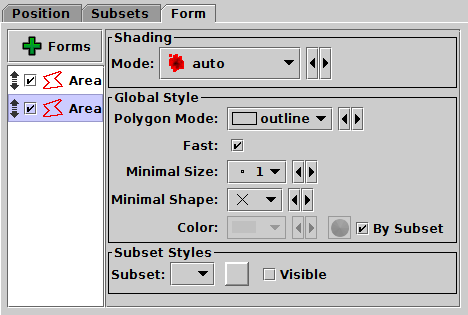
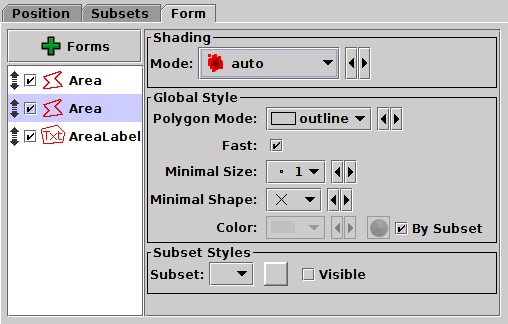
ttools: add AreaLabel plotter to relevant plots
The Plane, Sky and Sphere plots now have the new AreaLabel plot layer
option, which means that you can paint a text label at the
reference/central position of plotted areas.

Changed region(s): [[0.0, 0.0, 1.0, 1.0]]

diff --git a/ttools/src/main/uk/ac/starlink/ttools/build/Plot2Example.java b/ttools/src/main/uk/ac/starlink/ttools/build/Plot2Example.java
@@ -1259,6 +1259,15 @@ public class Plot2Example {
                 "*layer2=central", "*shape2=fat_circle", "*size2=3",
                 "*color2=black",
             } ),
+            new Plot2Example( "layer-arealabel", c, PlotTask.SKY, new String[] {
+                "clon=-0.6", "clat=2.347", "radius=0.6",
+                "reflectlon=false", "sex=false", null,
+                "in=" + TName.CRISM, "icmd='select sensor_id==0x53'", null,
+                "*area=s_region", "*areatype=STC-S", null,
+                "layer_1=area", null,
+                "*layer_2=arealabel", "*label_2=granule_gid",
+                "*anchor_2=center", "*color_2=grey",
+            } ),
             new Plot2Example( "layer-function", c, PlotTask.PLANE,
                               new String[] {
                 "*layer1=function", "*fexpr1=sin(x)/x", "*thick1=3", null,

diff --git a/topcat/src/main/uk/ac/starlink/topcat/ResourceIcon.java b/topcat/src/main/uk/ac/starlink/topcat/ResourceIcon.java
@@ -741,6 +741,8 @@ public class ResourceIcon implements Icon {
                          toAddIcon( TTRI.FORM_LINEARFIT ) );
         putMap( nameMap, "ADD_FORM_QUANTILE", toAddIcon( TTRI.FORM_QUANTILE ) );
         putMap( nameMap, "ADD_PLOT_LABEL", toAddIcon( TTRI.PLOT_LABEL ) );
+        putMap( nameMap, "ADD_PLOT_AREALABEL",
+                         toAddIcon( TTRI.PLOT_AREALABEL ) );
         putMap( nameMap, "ADD_PLOT_CONTOUR", toAddIcon( TTRI.PLOT_CONTOUR ) );
         putMap( nameMap, "ADD_FORM_GRID", toAddIcon( TTRI.FORM_GRID ) );
         putMap( nameMap, "ADD_FORM_SKYDENSITY",

diff --git a/ttools/src/main/uk/ac/starlink/ttools/plot2/geom/SkyPlotType.java b/ttools/src/main/uk/ac/starlink/ttools/plot2/geom/SkyPlotType.java
@@ -80,6 +80,7 @@ public class SkyPlotType
         list.addAll( Arrays.asList( shapePlotters ) );
         list.addAll( Arrays.asList( new Plotter<?>[] {
             LabelPlotter.POINT_INSTANCE,
+            LabelPlotter.AREA_SKY_INSTANCE,
             new ContourPlotter( true ),
             new SkyDensityPlotter( true, true ),
             new HealpixPlotter( true ),

diff --git a/ttools/src/main/uk/ac/starlink/ttools/plot2/geom/SpherePlotType.java b/ttools/src/main/uk/ac/starlink/ttools/plot2/geom/SpherePlotType.java
@@ -74,6 +74,7 @@ public class SpherePlotType
         list.addAll( Arrays.asList( shapePlotters ) );
         list.addAll( Arrays.asList( new Plotter<?>[] {
             LabelPlotter.POINT_INSTANCE,
+            LabelPlotter.AREA_SPHERE_INSTANCE,
             new Line3dPlotter(),
             new ContourPlotter( true ),
             new SphereGridPlotter(),

diff --git a/ttools/src/main/uk/ac/starlink/ttools/plot2/geom/PlanePlotType.java b/ttools/src/main/uk/ac/starlink/ttools/plot2/geom/PlanePlotType.java
@@ -144,6 +144,7 @@ public class PlanePlotType
             new LinePlotter( LinePlotter.PLANE_SORTAXIS_KEY ),
             new LinearFitPlotter( true ),
             LabelPlotter.POINT_INSTANCE,
+            LabelPlotter.AREA_PLANE_INSTANCE,
             new ContourPlotter( true ),
             new GridPlotter( true ),
             new FillPlotter( true ),
